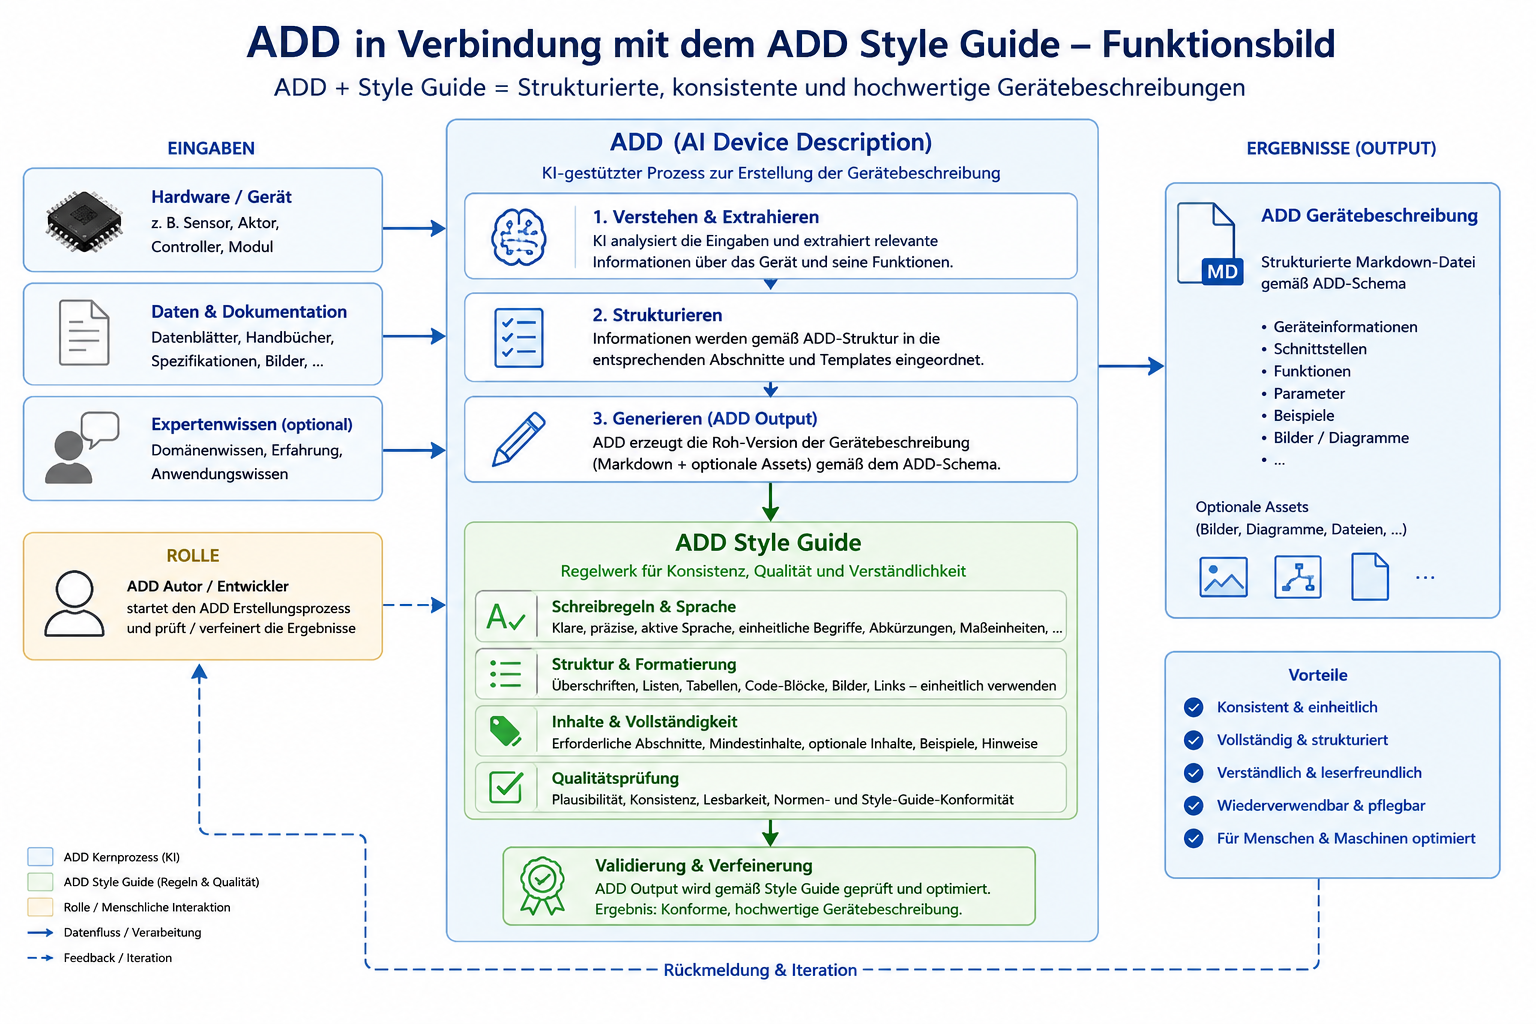
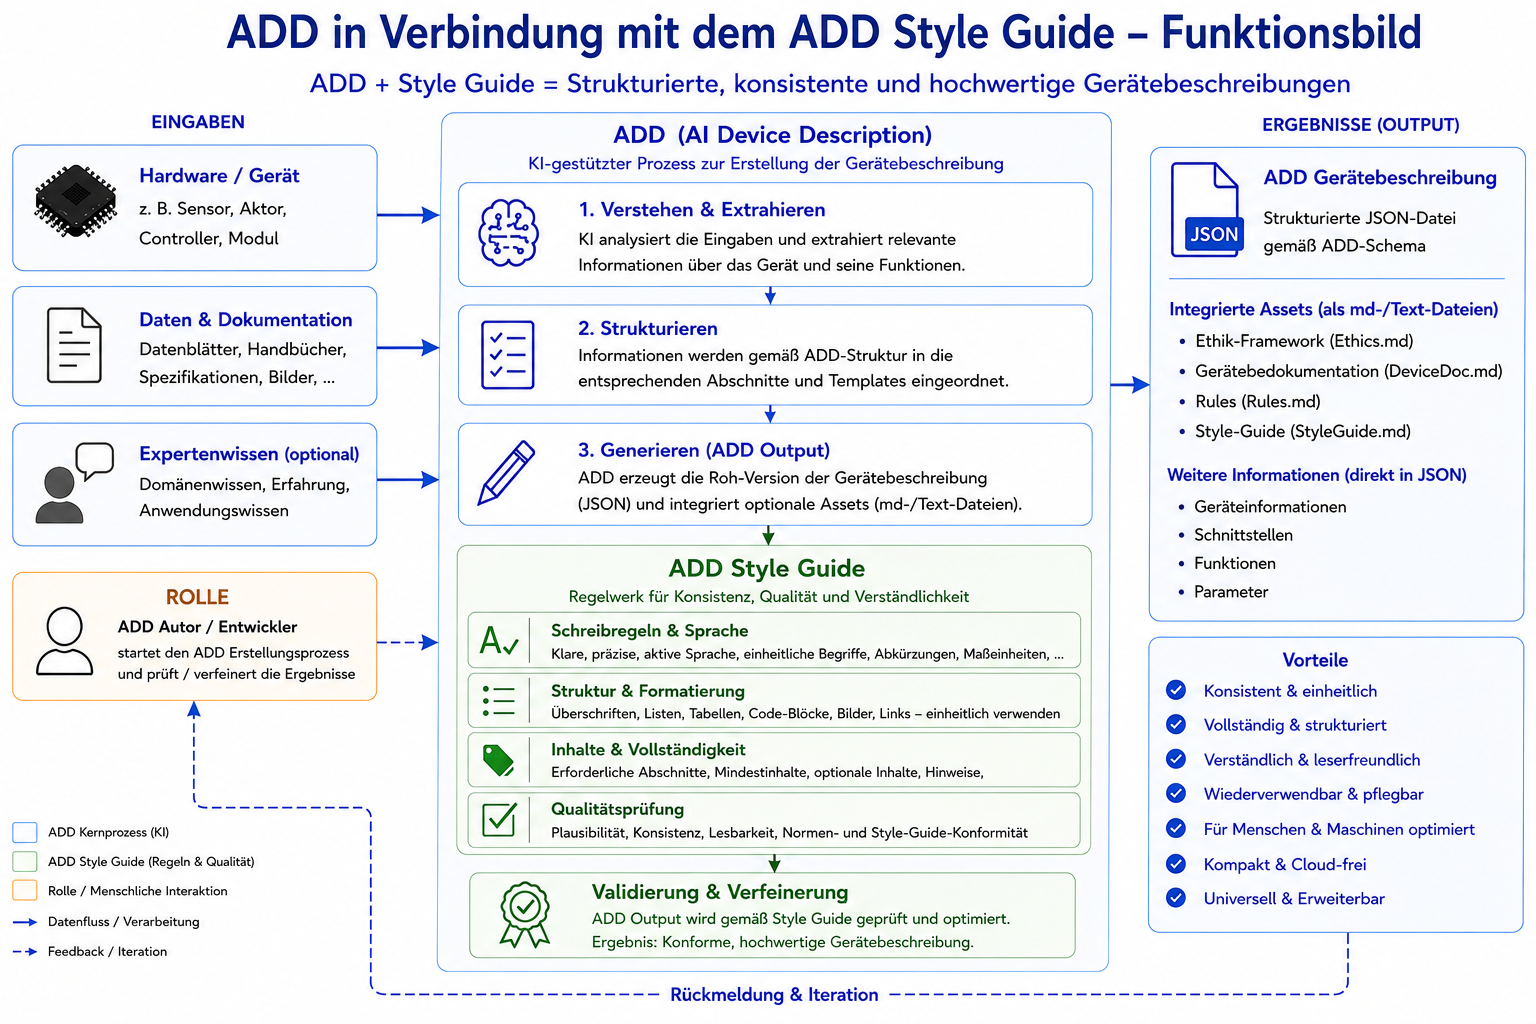
Add picture

Changed region(s): [[0.0, 0.0, 1.0, 1.0], [0.0, 0.7812, 0.1875, 0.9375], [0.2188, 0.8125, 0.25, 0.8438]]

diff --git a/ADD_Specification_v1_0.md b/ADD_Specification_v1_0.md
@@ -1421,6 +1421,8 @@ The device author bears full responsibility for the final document. The AI produ
 <a id="sec-12-2-authoring-workflow"></a>
 ### 12.2 The Authoring Workflow
 
+<img src="../pictures/Workflow_ADD_Document_EN.png" alt="ADD Simulator" width="800">
+
 **Phase 1 — Device Exploration**
 
 The AI reads the ADD specification, then systematically explores the device: it retrieves the HTML source of the web interface, identifies visible controls and input fields, discovers API endpoints by examining links and JavaScript, makes HTTP GET requests to discovered endpoints, and analyzes the responses. It maps everything it finds to the seven ADD blocks.
